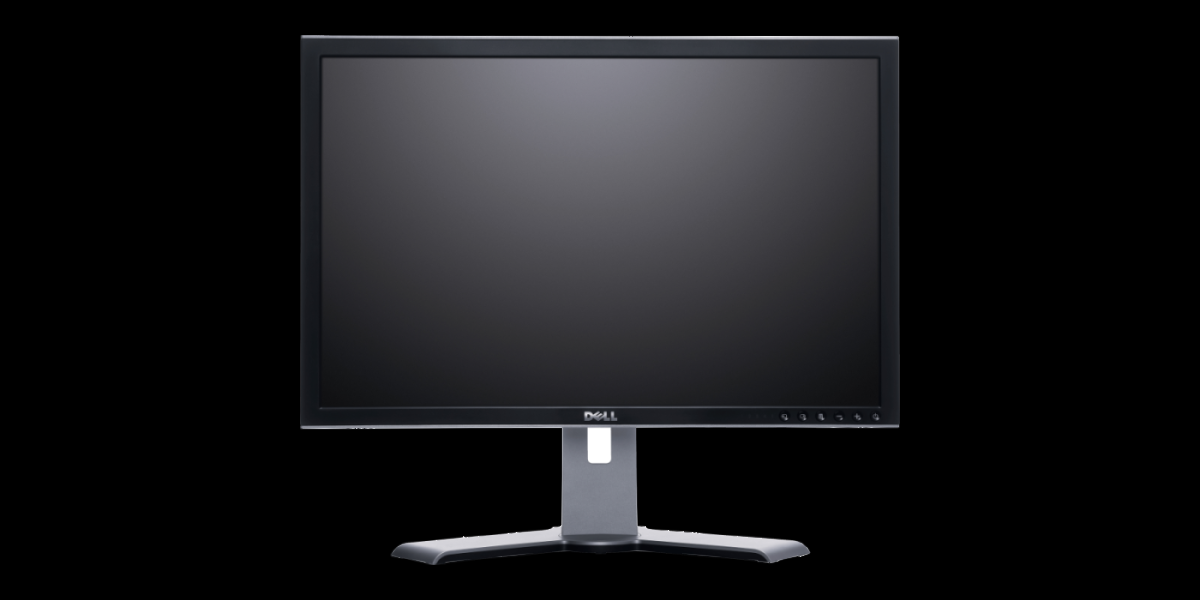
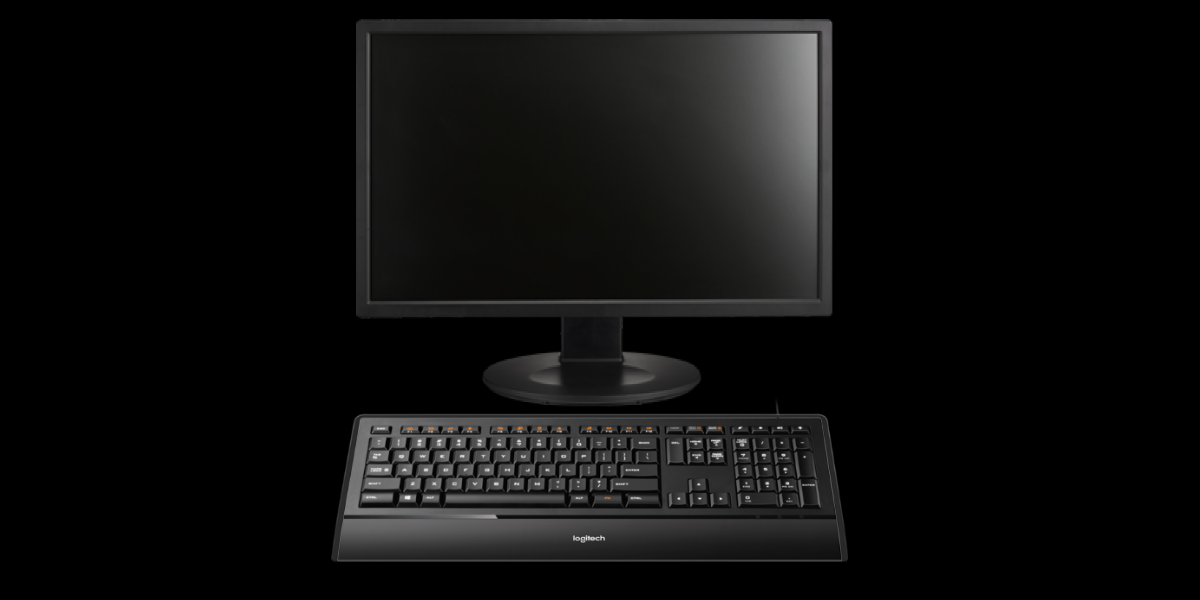
off

diff --git a/index.html b/index.html
@@ -3,21 +3,21 @@
 
   <head>
     <meta charset="utf-8">
-    <title>A World in A World in A World</title> <!-- put your net art project title here -->
+    <title>A World in A World in A World</title>
     <link rel="stylesheet" type="text/css" href="main.css">
+    <style>
+      html {
+        background-image: url("images/computer.png");
+        background-repeat: no repeat;
+        background-size: cover;
+      }
+    </style>
   </head>
 
   <body>
-
-    <h1>a world</h1>
-    <a href="pagefairy.html"><img src="images/clouds-edit.png"></a>
-
-    <h1>a world</h1>
-    <a href="pageice.html"><img src="images/ice-edit.png"></a>
-
-    <h1>a world</h1>
-    <a href="pageliftoff.html"><img src="images/space.png"></a>
-
+    <h3 class="world"><a href="pageportal.html">🏠 a world</a></h3>
+    <br>
+    <h3 class="shutdown"><a href="pageoff.html">🔴 shutdown</a></h3>
   </body>
 
 </html>

diff --git a/pageportal.html b/pageportal.html
@@ -1,0 +1,23 @@
+<!DOCTYPE html>
+<html>
+
+  <head>
+    <meta charset="utf-8">
+    <title>A World in A World in A World</title> <!-- put your net art project title here -->
+    <link rel="stylesheet" type="text/css" href="main.css">
+  </head>
+
+  <body>
+
+    <h1>a world</h1>
+    <a href="pagefairy.html"><img src="images/clouds-edit.png"></a>
+
+    <h1>a world</h1>
+    <a href="pageice.html"><img src="images/ice-edit.png"></a>
+
+    <h1>a world</h1>
+    <a href="pageliftoff.html"><img src="images/space.png"></a>
+
+  </body>
+
+</html>

diff --git a/pageoff.html b/pageoff.html
@@ -7,7 +7,7 @@
     <link rel="stylesheet" type="text/css" href="main.css">
     <style>
       html {
-        background-image: url("images/computer.png");
+        background-image: url("images/black.jpg");
         background-repeat: no repeat;
         background-size: cover;
       }
@@ -15,7 +15,6 @@
   </head>
 
   <body>
-    <h3 class="world"><a href="index.html">⬤ a world</a></h3>
   </body>
 
 </html>

diff --git a/main.css b/main.css
@@ -75,8 +75,13 @@ video {
 }
 
 .world {
-  margin-top: 30px;
-  margin-right: 500px;
+  margin-top: 0px;
+  margin-right: 380px;
+}
+
+.shutdown {
+  margin-top: -35px;
+  margin-right: 360px;
 }
 
 .comp {

diff --git a/pageiceentrance.html b/pageiceentrance.html
@@ -13,6 +13,6 @@
     </style>
   </head>
   <body>
-    <h2 class="cold"><a href="pagehome.html">where's home?</a></h2>
+    <h2 class="cold"><a href="index.html">where to next?</a></h2>
   </body>
 </html>
